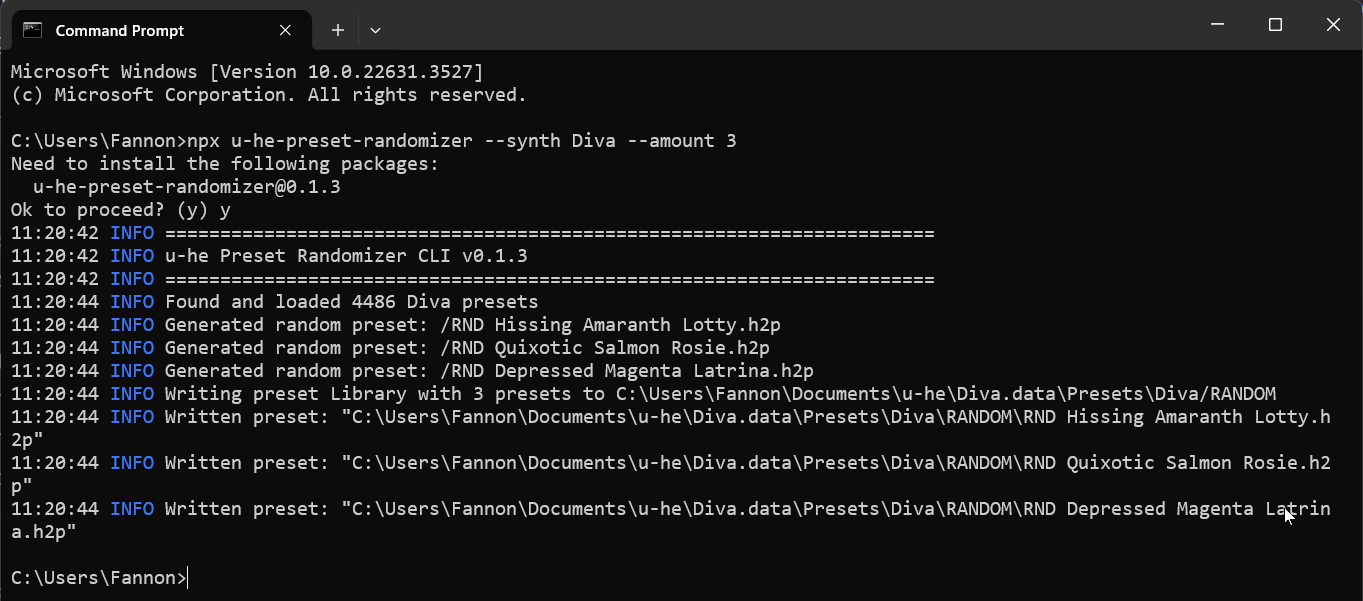
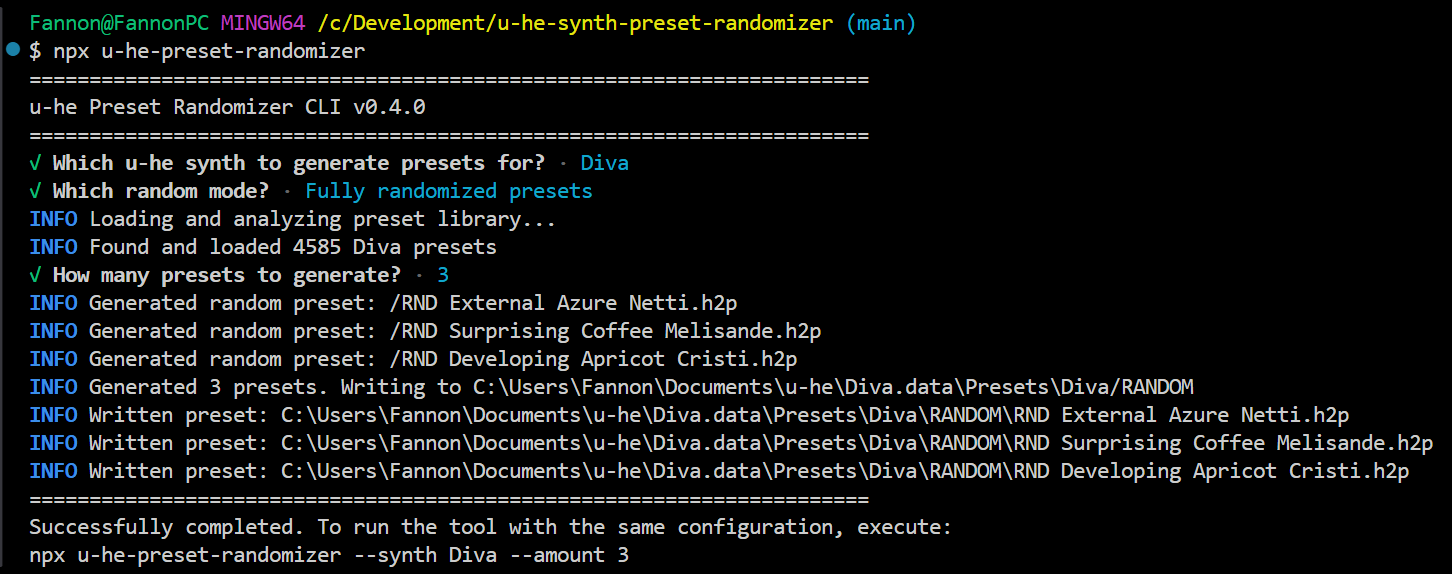
Allow to choose randomness in interactive mode. Some minor CLI output improvements

Changed region(s): [[0.0, 0.0, 1.0, 0.9774]]

diff --git a/src/cli.ts b/src/cli.ts
@@ -12,15 +12,15 @@ import { prompt } from "enquirer"
 
 const packageJson = fs.readJSONSync(__dirname + '/../package.json')
 
-log.info('======================================================================')
-log.info('u-he Preset Randomizer CLI v' + packageJson.version)
-log.info('======================================================================')
+console.log('======================================================================')
+console.log('u-he Preset Randomizer CLI v' + packageJson.version)
+console.log('======================================================================')
 
 const config = getConfigFromParameters();
 
 (async () => {
   
-  if (!config.synthName) {
+  if (!config.synth) {
     // If no synth is given, we'll go into fully interactive CLI mode
     await runInteractiveMode()
   } else {
@@ -33,7 +33,7 @@ const config = getConfigFromParameters();
 });
 
 function runWithoutInteractivity() {
-  const presetLibrary = loadPresetLibrary(config.synthName)
+  const presetLibrary = loadPresetLibrary(config.synth)
   if (config.debug) {
     fs.outputFileSync(
       "./tmp/presetLibrary.json",
@@ -76,13 +76,13 @@ async function runInteractiveMode() {
   const availableSynths = synthFolders.map((el) => {
     return el.replace('.data', '')
   })
-  const synthName = await prompt<{value: string}>({
+  const synth = await prompt<{value: string}>({
     type: 'autocomplete',
     name: 'value',
     message: 'Which u-he synth to generate presets for?',
     choices: availableSynths
   })
-  config.synthName = synthName.value
+  config.synth = synth.value
 
   // 2) Choose random generation mode
   const mode = await prompt<{value: string}>({
@@ -96,8 +96,8 @@ async function runInteractiveMode() {
     ]
   })
 
-  log.info('Loading and analyzing preset library...')
-  const presetLibrary = loadPresetLibrary(config.synthName)
+  console.log('Loading and analyzing preset library...')
+  const presetLibrary = loadPresetLibrary(config.synth)
   const foundPresets = presetLibrary.presets.map((el) =>  el.filePath)
   const paramsModel = analyzeParamsTypeAndRange(presetLibrary)
 
@@ -120,7 +120,7 @@ async function runInteractiveMode() {
 
     // MODE 2: Randomize existing preset
 
-    log.info('Now choose one presets to merge. Type for autocomplete, enter to select.')
+    console.log('Now choose one presets to merge. Type for autocomplete, enter to select.')
     const confirm = await prompt<{value: boolean}>({
       type: 'confirm',
       name: 'value',
@@ -140,6 +140,15 @@ async function runInteractiveMode() {
     })
     config.preset = presetChoice.value
 
+    // Choose amount of randomness
+    const randomness = await prompt<{value: number}>({
+      type: 'number',
+      name: 'value',
+      message: 'How much randomness to apply (0-100)?',
+      initial: 20
+    })
+    config.randomness = randomness.value
+
     // Choose number of presets to generate
     const amount = await prompt<{value: number}>({
       type: 'number',
@@ -155,8 +164,8 @@ async function runInteractiveMode() {
 
     // MODE 3: Merge Random Presets
 
-    log.info('Now choose at least two presets to merge. Type for autocomplete, enter to select.')
-    log.info('Complete selection by pressing enter without a selection.')
+    console.log('Now choose at least two presets to merge. Type for autocomplete, enter to select.')
+    console.log('Complete selection by pressing enter without a selection.')
     const confirm = await prompt<{value: boolean}>({
       type: 'confirm',
       name: 'value',
@@ -184,7 +193,7 @@ async function runInteractiveMode() {
       }
     }
 
-    log.info(`Selection: ${config.merge.join(', ')}`)
+    console.log(`Selection: ${config.merge.join(', ')}`)
 
     if (config.merge.length < 2) {
       log.error(`At least two presets need to be chosen. Will abort.`)
@@ -204,5 +213,17 @@ async function runInteractiveMode() {
     writePresetLibrary(generatedPresets)
   }
 
+  console.log('======================================================================')
+  console.log('Successfully completed. To run the tool with the same configuration, execute:')
+
+  let cliCommand = `npx u-he-preset-randomizer --synth ${config.synth} --amount ${config.amount}`
+  if (config.preset) {
+    cliCommand += ` --preset "${config.preset}" --random ${config.randomness}`
+  } else if (config.merge) {
+    for (const merge of config.merge) {
+      cliCommand += ` --merge "${merge}"`
+    }
+  }
+  console.log(cliCommand)
 }
 

diff --git a/src/presetLibrary.ts b/src/presetLibrary.ts
@@ -11,14 +11,14 @@ export interface PresetLibrary {
   presets: Preset[];
 }
 
-export function loadPresetLibrary(synthName: SynthName): PresetLibrary {
+export function loadPresetLibrary(synth: SynthName): PresetLibrary {
   const presetFolder = path.join(
     os.homedir(),
-    `/Documents/u-he/${synthName}.data/Presets/${synthName}`
+    `/Documents/u-he/${synth}.data/Presets/${synth}`
   );
   const userPresetsFolder = path.join(
     os.homedir(),
-    `/Documents/u-he/${synthName}.data/UserPresets/${synthName}`
+    `/Documents/u-he/${synth}.data/UserPresets/${synth}`
   );
 
   const presetLibrary: PresetLibrary = {
@@ -47,18 +47,18 @@ export function loadPresetLibrary(synthName: SynthName): PresetLibrary {
     process.exit(1)
   }
 
-  log.info(`Found and loaded ${presetLibrary.presets.length} ${synthName} presets`);
+  console.log(`Found and loaded ${presetLibrary.presets.length} ${synth} presets`);
 
   return presetLibrary;
 }
 
 export function writePresetLibrary(presetLibrary: PresetLibrary) {
-  log.info(`Generated ${presetLibrary.presets.length} presets. Writing to ${presetLibrary.presetRootFolder}`)
+  console.log(`Generated ${presetLibrary.presets.length} presets. Writing to ${presetLibrary.presetRootFolder}`)
 
   for (const preset of presetLibrary.presets) {
     const filePath = path.join(presetLibrary.presetRootFolder, preset.filePath)
     const fileContent = serializePresetToFile(preset)
     fs.outputFileSync(filePath, fileContent)
-    log.info(`Written preset: ${filePath}`)
+    console.log(`Written preset: ${filePath}`)
   }
 }

diff --git a/src/randomizer.ts b/src/randomizer.ts
@@ -52,7 +52,7 @@ export function generateFullyRandomPresets(
       }
     ],
 
-    log.info(`Generated random preset: ${randomPreset.filePath}`);
+    console.log(`Generated random preset: ${randomPreset.filePath}`);
     newPresetLibrary.presets.push(randomPreset)
   }
   return newPresetLibrary;
@@ -127,7 +127,7 @@ export function generateRandomizedPresets(
     randomPreset.filePath = `/RND ${randomName} ${randomPreset.presetName}.h2p`;
     randomPreset.presetName = `RND ${randomName} ${randomPreset.presetName}`;
 
-    log.info(`Generated random preset: ${randomPreset.filePath}`);
+    console.log(`Generated random preset: ${randomPreset.filePath}`);
     newPresetLibrary.presets.push(randomPreset)
   }
   return newPresetLibrary;
@@ -178,7 +178,7 @@ export function generateMergedPresets(
     mergePresets.push(mergePreset)
   }
 
-  log.info(`Merging presets: ${mergePresets.map((el) => el.presetName).join(', ')}`)
+  console.log(`Merging presets: ${mergePresets.map((el) => el.presetName).join(', ')}`)
 
   for (let i = 0; i < config.amount; i++) {
     const newPreset: Preset = JSON.parse(JSON.stringify(getRandomArrayItem<Preset>(mergePresets)));
@@ -240,7 +240,7 @@ export function generateMergedPresets(
       }
     ],
 
-    log.info(`Generated merged preset: ${newPreset.filePath}`);
+    console.log(`Generated merged preset: ${newPreset.filePath}`);
     newPresetLibrary.presets.push(newPreset)
   }
   return newPresetLibrary;

diff --git a/src/config.ts b/src/config.ts
@@ -10,7 +10,7 @@ export type SynthName =
   | string;
 
 export interface Config {
-  synthName: SynthName;
+  synth: SynthName;
   debug: boolean;
   amount: number;
   preset?: string | undefined;
@@ -20,7 +20,7 @@ export interface Config {
 
 export function getDefaultConfig(): Config {
   return {
-    synthName: '',
+    synth: '',
     debug: false,
     amount: 4,
     preset: undefined,
@@ -33,7 +33,7 @@ let config = getDefaultConfig();
 export function getConfigFromParameters() {
   const argv = yargs.argv as any;
   if (argv['synth']) {
-    config.synthName = argv['synth']
+    config.synth = argv['synth']
   }
   if (argv['debug']) {
     config.debug = true;
